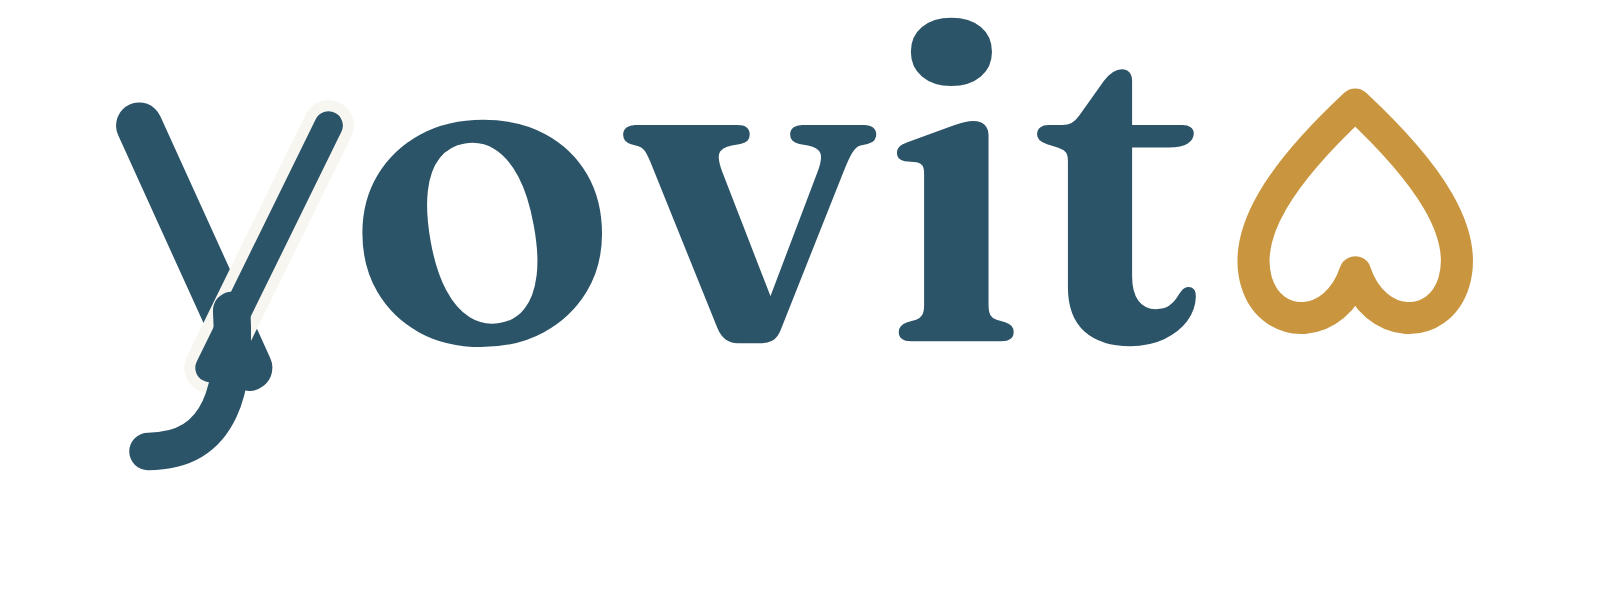
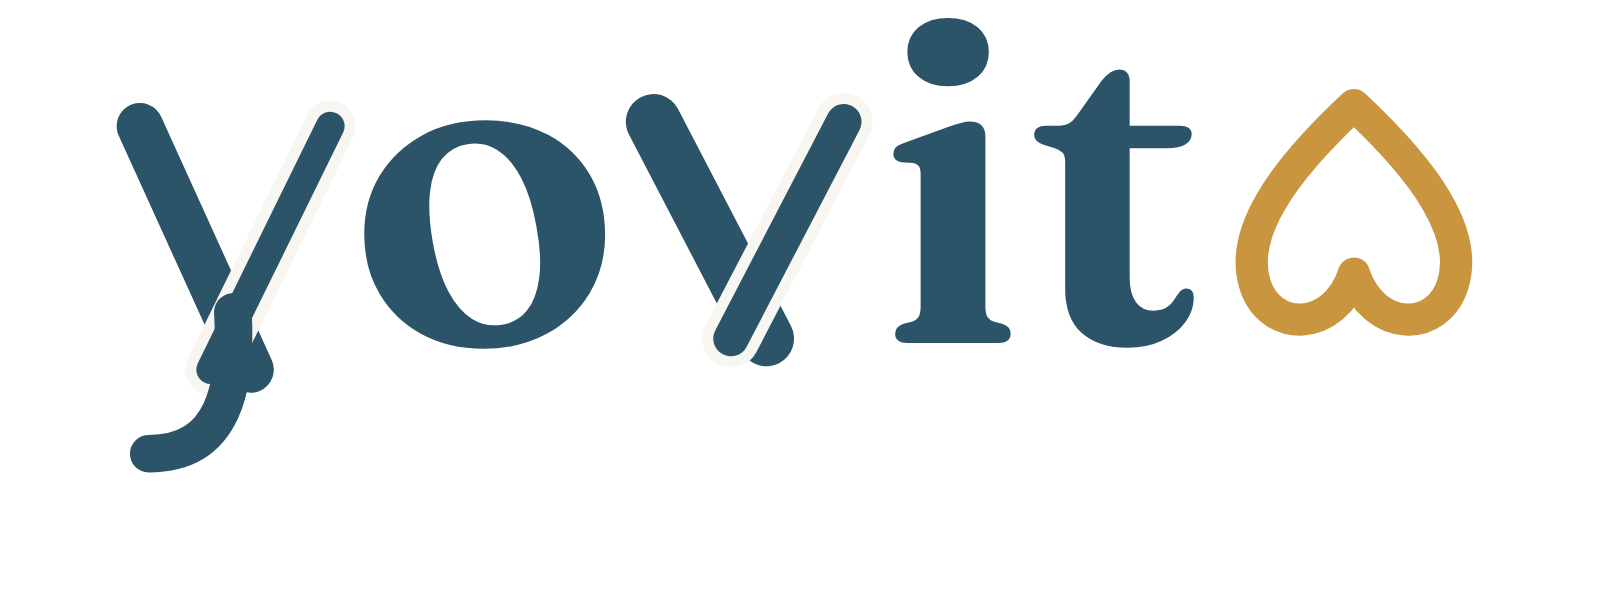
La 'v' de yovito ahora son las dos manos sosteniendose
La 'v' se dibuja con el mismo lenguaje que la 'y': el antebrazo del
padre mas grueso, el de la hija mas fino, y un hueco visible en el
vertice que hace legible el agarre. Se agrega el isotipo de la V
suelta (marca-v y sello-v) y la variante alterna con la 'y'
tipografica normal, por si mas adelante se prefiere contar la historia
en una sola letra.

diff --git a/index.html b/index.html
@@ -157,7 +157,7 @@
 <header class="top">
   <div class="wrap">
     <a class="brand" href="/" aria-label="Yovito">
-      <svg class="wm" xmlns="http://www.w3.org/2000/svg" viewBox="0 0 871.4 326.4" role="img" aria-label="Yovito"><path d="M75.60 68.40 L135.60 200.40" stroke="currentColor" stroke-width="25.20" stroke-linecap="round" fill="none"/><path d="M178.80 68.40 L114.00 200.40" stroke="var(--papel)" stroke-width="27.60" stroke-linecap="round" fill="none"/><path d="M178.80 68.40 L114.00 200.40" stroke="currentColor" stroke-width="15.60" stroke-linecap="round" fill="none"/><path d="M126.00 169.20 C128.40 210.00 121.20 246.00 80.40 246.00" stroke="currentColor" stroke-width="20.40" stroke-linecap="round" fill="none"/><g color="currentColor"><path d="M600 970Q755 970 872.0 907.0Q989 844 1054.5 731.5Q1120 619 1120 470Q1120 329 1052.5 217.0Q985 105 866.0 40.0Q747 -25 590 -25Q436 -25 319.5 39.0Q203 103 137.0 215.5Q71 328 71 475Q71 618 138.5 729.5Q206 841 325.0 905.5Q444 970 600 970ZM671 80Q739 90 780.5 142.5Q822 195 833.5 287.0Q845 379 821 508Q798 637 754.0 720.5Q710 804 650.0 841.0Q590 878 520 866Q451 855 409.5 802.5Q368 750 357.5 658.5Q347 567 370 437Q393 309 437.0 225.5Q481 142 541.0 105.0Q601 68 671 80Z" transform="translate(188.40,186.00) scale(0.12448,-0.12448)" fill="currentColor"/><path d="M610 -8H508Q477 -8 455.5 8.0Q434 24 420 57L126 786Q110 824 99.5 837.0Q89 850 74 854L42 863Q23 869 15.0 879.0Q7 889 7 905Q7 925 21.5 936.0Q36 947 60 947H508Q561 947 561 905Q561 889 552.0 879.0Q543 869 520 864L483 857Q437 847 428.0 823.0Q419 799 442 739L677 133L614 98L857 739Q880 799 870.5 823.0Q861 847 816 857L778 864Q757 869 747.5 879.0Q738 889 738 905Q738 925 752.0 936.0Q766 947 790 947H1062Q1087 947 1101.0 936.0Q1115 925 1115 905Q1115 891 1107.0 880.5Q1099 870 1077 864L1046 857Q1027 852 1011.5 828.0Q996 804 973 746L697 51Q684 16 661.0 4.0Q638 -8 610 -8Z" transform="translate(338.46,186.00) scale(0.12448,-0.12448)" fill="currentColor"/><path d="M472 902V160Q472 129 480.5 114.5Q489 100 507 94L545 84Q564 78 573.0 67.5Q582 57 582 41Q582 22 569.0 11.0Q556 0 527 0H133Q105 0 92.0 11.0Q79 22 79 41Q79 56 88.0 66.5Q97 77 116 84L155 94Q173 101 181.5 115.0Q190 129 190 160V733Q190 759 182.5 770.0Q175 781 158 784L105 788Q87 792 79.0 801.0Q71 810 71 824Q71 841 80.5 851.0Q90 861 117 871L303 939Q342 953 365.5 959.0Q389 965 405 965Q439 965 455.5 947.5Q472 930 472 902ZM309 1118Q229 1118 180.5 1159.5Q132 1201 132 1268Q132 1335 180.5 1375.5Q229 1416 309 1416Q390 1416 438.5 1375.5Q487 1335 487 1268Q487 1201 438.5 1159.5Q390 1118 309 1118Z" transform="translate(479.68,186.00) scale(0.12448,-0.12448)" fill="currentColor"/><path d="M126 849 80 863Q56 871 46.0 881.5Q36 892 36 906Q36 926 49.5 936.5Q63 947 86 947H147Q171 947 187.0 956.0Q203 965 220 988L329 1141Q350 1167 369.0 1179.0Q388 1191 407 1191Q428 1191 440.0 1178.0Q452 1165 452 1140V285Q452 215 479.5 178.0Q507 141 556 141Q593 141 613.5 155.5Q634 170 646.0 189.0Q658 208 669.5 222.5Q681 237 699 238Q714 238 722.5 228.0Q731 218 731 195Q730 138 693.5 89.0Q657 40 592.0 9.5Q527 -21 444 -21Q316 -21 243.5 43.5Q171 108 171 238V790Q171 816 160.5 828.5Q150 841 126 849ZM341 848V947H672Q695 947 708.5 937.5Q722 928 722 910Q722 884 696.0 866.0Q670 848 612 848Z" transform="translate(560.40,186.00) scale(0.12448,-0.12448)" fill="currentColor"/></g><path d="M738.24 56.98 C697.92 94.61 676.42 126.86 684.48 153.74 C692.55 180.62 727.49 180.62 738.24 148.37 C749.00 180.62 783.94 180.62 792.00 153.74 C800.07 126.86 778.56 94.61 738.24 56.98 Z" stroke="var(--oro)" stroke-width="17.47" fill="none" stroke-linejoin="round"/></svg>
+      <svg class="wm" xmlns="http://www.w3.org/2000/svg" viewBox="0 0 867.0 326.4" role="img" aria-label="Yovito"><path d="M75.60 68.40 L135.60 200.40" stroke="currentColor" stroke-width="25.20" stroke-linecap="round" fill="none"/><path d="M178.80 68.40 L114.00 200.40" stroke="var(--papel)" stroke-width="27.60" stroke-linecap="round" fill="none"/><path d="M178.80 68.40 L114.00 200.40" stroke="currentColor" stroke-width="15.60" stroke-linecap="round" fill="none"/><path d="M126.00 169.20 C128.40 210.00 121.20 246.00 80.40 246.00" stroke="currentColor" stroke-width="20.40" stroke-linecap="round" fill="none"/><g color="currentColor"><path d="M600 970Q755 970 872.0 907.0Q989 844 1054.5 731.5Q1120 619 1120 470Q1120 329 1052.5 217.0Q985 105 866.0 40.0Q747 -25 590 -25Q436 -25 319.5 39.0Q203 103 137.0 215.5Q71 328 71 475Q71 618 138.5 729.5Q206 841 325.0 905.5Q444 970 600 970ZM671 80Q739 90 780.5 142.5Q822 195 833.5 287.0Q845 379 821 508Q798 637 754.0 720.5Q710 804 650.0 841.0Q590 878 520 866Q451 855 409.5 802.5Q368 750 357.5 658.5Q347 567 370 437Q393 309 437.0 225.5Q481 142 541.0 105.0Q601 68 671 80Z" transform="translate(188.40,186.00) scale(0.12448,-0.12448)" fill="currentColor"/></g><path d="M354.06 66.00 L415.26 183.60" stroke="currentColor" stroke-width="30.00" stroke-linecap="round" fill="none"/><path d="M457.26 66.00 L396.06 183.60" stroke="var(--papel)" stroke-width="31.20" stroke-linecap="round" fill="none"/><path d="M457.26 66.00 L396.06 183.60" stroke="currentColor" stroke-width="19.20" stroke-linecap="round" fill="none"/><g color="currentColor"><path d="M472 902V160Q472 129 480.5 114.5Q489 100 507 94L545 84Q564 78 573.0 67.5Q582 57 582 41Q582 22 569.0 11.0Q556 0 527 0H133Q105 0 92.0 11.0Q79 22 79 41Q79 56 88.0 66.5Q97 77 116 84L155 94Q173 101 181.5 115.0Q190 129 190 160V733Q190 759 182.5 770.0Q175 781 158 784L105 788Q87 792 79.0 801.0Q71 810 71 824Q71 841 80.5 851.0Q90 861 117 871L303 939Q342 953 365.5 959.0Q389 965 405 965Q439 965 455.5 947.5Q472 930 472 902ZM309 1118Q229 1118 180.5 1159.5Q132 1201 132 1268Q132 1335 180.5 1375.5Q229 1416 309 1416Q390 1416 438.5 1375.5Q487 1335 487 1268Q487 1201 438.5 1159.5Q390 1118 309 1118Z" transform="translate(475.26,186.00) scale(0.12448,-0.12448)" fill="currentColor"/><path d="M126 849 80 863Q56 871 46.0 881.5Q36 892 36 906Q36 926 49.5 936.5Q63 947 86 947H147Q171 947 187.0 956.0Q203 965 220 988L329 1141Q350 1167 369.0 1179.0Q388 1191 407 1191Q428 1191 440.0 1178.0Q452 1165 452 1140V285Q452 215 479.5 178.0Q507 141 556 141Q593 141 613.5 155.5Q634 170 646.0 189.0Q658 208 669.5 222.5Q681 237 699 238Q714 238 722.5 228.0Q731 218 731 195Q730 138 693.5 89.0Q657 40 592.0 9.5Q527 -21 444 -21Q316 -21 243.5 43.5Q171 108 171 238V790Q171 816 160.5 828.5Q150 841 126 849ZM341 848V947H672Q695 947 708.5 937.5Q722 928 722 910Q722 884 696.0 866.0Q670 848 612 848Z" transform="translate(555.98,186.00) scale(0.12448,-0.12448)" fill="currentColor"/></g><path d="M733.82 56.98 C693.50 94.61 672.00 126.86 680.06 153.74 C688.13 180.62 723.07 180.62 733.82 148.37 C744.58 180.62 779.52 180.62 787.58 153.74 C795.65 126.86 774.14 94.61 733.82 56.98 Z" stroke="var(--oro)" stroke-width="17.47" fill="none" stroke-linejoin="round"/></svg>
       <span class="frase">Hecho a cuatro manos</span>
     </a>
     <span class="fecha">Santo Domingo, RD</span>
